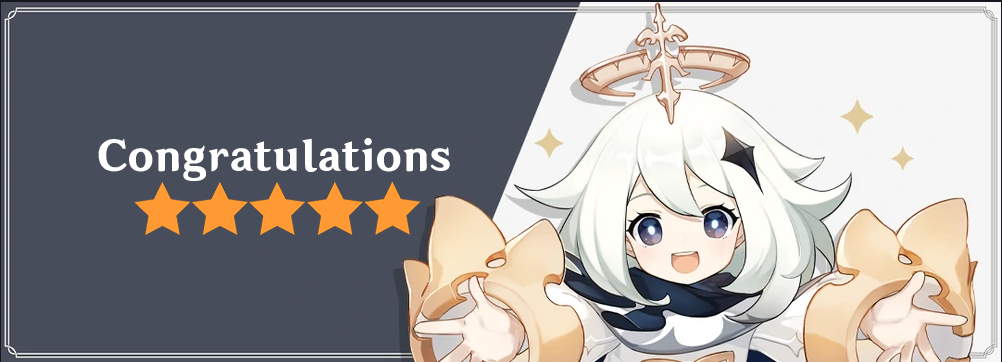
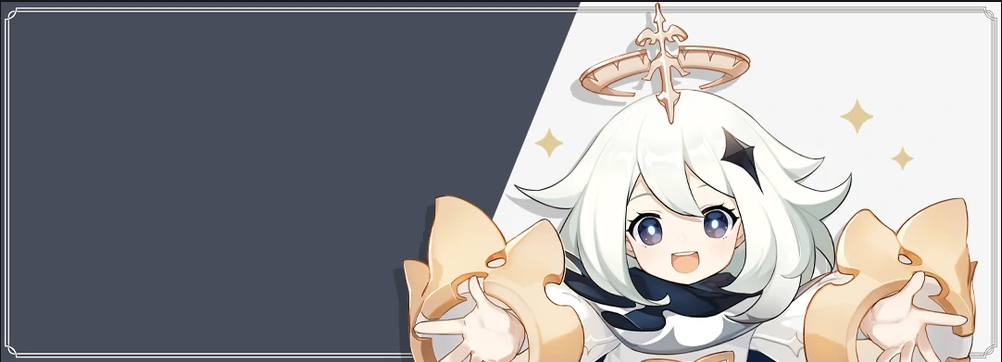
refactor: se pasa el juego de cartas a modulo, los textos de las imagenes se sacan y se pasan a etiquetas html

Changed region(s): [[0.0928, 0.3646, 0.4641, 0.5166], [0.1238, 0.5166, 0.4331, 0.6381]]

diff --git a/src/app/game/components/board/board.component.scss b/src/app/game/components/board/board.component.scss
@@ -226,31 +226,7 @@
 
 /*#endregion buttons*/
 
-
-
-.congrats-container{
-  display: flex;
-  justify-content: center;
-  align-items: center;
-  flex-direction: column;
-  width: 100%;
-  height: 80%;
-}
-
-.congrats {
-  display: flex;
-  flex-direction: row;
-  justify-content: center;
-  justify-content: space-evenly;
-}
-
-.congrats img{
-  max-width: 350px;
-  position: relative;
-  border-radius: 10px;
-}
-
-#overlay {
+#thx-overlay {
   position: fixed;
   display: block;
   width: 100%;
@@ -263,3 +239,90 @@
   z-index: 2;
   cursor: default;
 }
+
+.thx-container{
+  display: flex;
+  justify-content: center;
+  align-items: center;
+  flex-direction: column;
+  width: 100%;
+  height: 80%;
+}
+
+.thx-text {
+  position: fixed;
+  display: block;
+  width: 200px;
+  margin-right: 120px;
+  margin-top: -50px;
+  z-index: 1;
+}
+
+.thx {
+  display: flex;
+  flex-direction: row;
+  justify-content: center;
+  justify-content: space-evenly;
+}
+
+.thx-img img {
+  max-width: 350px;
+  position: relative;
+  border-radius: 10px;
+}
+
+#winner-overlay {
+  position: fixed;
+  display: block;
+  width: 100%;
+  height: 100%;
+  top: 0;
+  left: 0;
+  right: 0;
+  bottom: 0;
+  background-color: rgba(0,0,0,0.5);
+  z-index: 2;
+  cursor: default;
+}
+
+.winner-container{
+  display: flex;
+  justify-content: center;
+  align-items: center;
+  flex-direction: column;
+  width: 100%;
+  height: 80%;
+}
+
+.winner-box {
+  margin-right: 320px;
+}
+
+.winner-text {
+  position: fixed;
+  display: block;
+  width: 200px;
+  margin-top: 40px;
+  z-index: 1;
+}
+
+.winner-text span {
+  font-size: initial !important;
+}
+
+.winner-img-stars img {
+  position: fixed;
+  display: block;
+  width: 120px;
+  margin-top: 60px;
+  z-index: 2;
+}
+
+.winner-img img {
+  max-width: 350px;
+  position: relative;
+  border-radius: 10px;
+}
+
+
+

diff --git a/src/app/game/components/board/board.component.html b/src/app/game/components/board/board.component.html
@@ -21,15 +21,23 @@
       <button type="button" class="btn btn-primary waves-effect waves-light" (click)="autoWinner()">Auto Winner</button>
       <button type="button" class="btn btn-primary waves-effect waves-light" (click)="resetGame()">Reset Game</button>
     </div>
-    
+
   </div>
 </div>
 
 
 <div *ngIf="winner else noWinner">
-  <div id="overlay">
-    <div class="congrats-container">
-      <div class="congrats">
+  <div id="winner-overlay">
+    <div class="winner-container">
+      <div class="winner-box">
+        <div class="winner-text">
+          <span class="letra-color">Congratulations!</span> <br>
+        </div>
+        <div class="winner-img-stars">
+          <img src="{{imageUrlStars}}" />
+        </div>
+      </div>
+      <div class="winner-img">
         <img src="{{imageUrlCongratulations}}" />
       </div>
       <div>
@@ -38,16 +46,21 @@
         <button type="button" class="btn btn-primary waves-effect waves-light" (click)="nextLevel()"
           [disabled]="!nextLevelAvailable">Next level</button>
       </div>
+
     </div>
   </div>
 </div>
 
 <ng-template #noWinner></ng-template>
 
-<div *ngIf="firstTime else noFirstTime">
-   <div id="overlay">
-    <div class="congrats-container">
-      <div class="congrats">
+ <div *ngIf="firstTime else noFirstTime">
+   <div id="thx-overlay">
+    <div class="thx-container">
+      <div class="thx-text">
+        <span class="letra-color">Thank you so much for to playing my </span> <br>
+        <span class="letra-color">game!</span>
+      </div>
+      <div class="thx-img">
         <img src="{{imageUrlFirstTime}}" />
       </div>
       <div>

diff --git a/src/app/app-routing.module.ts b/src/app/app-routing.module.ts
@@ -1,10 +1,14 @@
 import { NgModule } from '@angular/core';
 import { RouterModule, Routes } from '@angular/router';
-import { BoardComponent } from './components/board/board.component';
 
 const routes: Routes = [
-  { path: '', pathMatch: 'full', redirectTo: 'board' },
-  { path: 'board', component: BoardComponent },
+  { path: '', pathMatch: 'full', redirectTo: 'game' },
+  {
+    path: 'game',
+    loadChildren: () => import(`./game/game.module`).then(
+      module => module.GameModule
+    )
+  },
 ];
 
 @NgModule({

diff --git a/src/app/app.module.ts b/src/app/app.module.ts
@@ -3,13 +3,12 @@ import { BrowserModule } from '@angular/platform-browser';
 
 import { AppRoutingModule } from './app-routing.module';
 import { AppComponent } from './app.component';
-import { BoardComponent } from './components/board/board.component';
+
 import { BrowserAnimationsModule } from '@angular/platform-browser/animations';
 
 @NgModule({
   declarations: [
-    AppComponent,
-    BoardComponent
+    AppComponent
   ],
   imports: [
     BrowserModule,

diff --git a/src/app/game/game.routing.ts b/src/app/game/game.routing.ts
@@ -1,0 +1,15 @@
+import { NgModule } from '@angular/core';
+import { Routes, RouterModule } from '@angular/router';
+import { BoardComponent } from './components/board/board.component';
+
+
+const routes: Routes = [
+  { path: '', component:  BoardComponent},
+];
+
+@NgModule({
+  imports: [RouterModule.forChild(routes)],
+  exports: [RouterModule]
+})
+
+export class GameRoutesModule { }

diff --git a/src/app/game/components/board/board.component.ts b/src/app/game/components/board/board.component.ts
@@ -42,6 +42,7 @@ export interface Card {
 })
 export class BoardComponent implements OnInit {
 
+  imageUrlStars = "/assets/images/5-stars.png";
   imageUrlFirstTime = "/assets/images/d36bf21bac71e6b64a9fb10a24a29319.png";
   imageUrlBackOfCard = "/assets/images/2540e00cdb975e70dee4f346b027451b.jpg";
   imageUrlCongratulations = "/assets/images/123b09c850b3342f79b01657ef72366ef8.png";

diff --git a/src/app/game/game.module.ts b/src/app/game/game.module.ts
@@ -1,0 +1,13 @@
+import { NgModule } from '@angular/core';
+import { CommonModule } from '@angular/common';
+import { GameRoutesModule } from './game.routing';
+import { BoardComponent } from './components/board/board.component';
+
+@NgModule({
+  imports: [
+    CommonModule,
+    GameRoutesModule
+  ],
+  declarations: [ BoardComponent ]
+})
+export class GameModule { }
